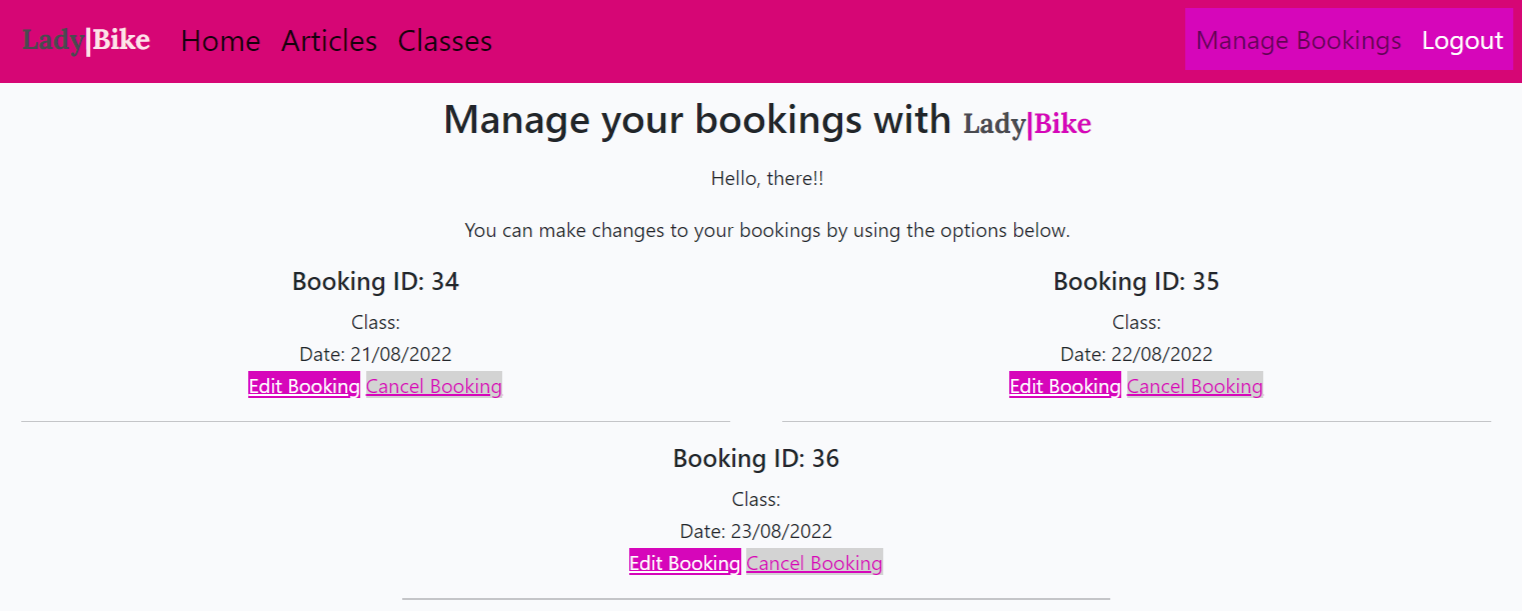
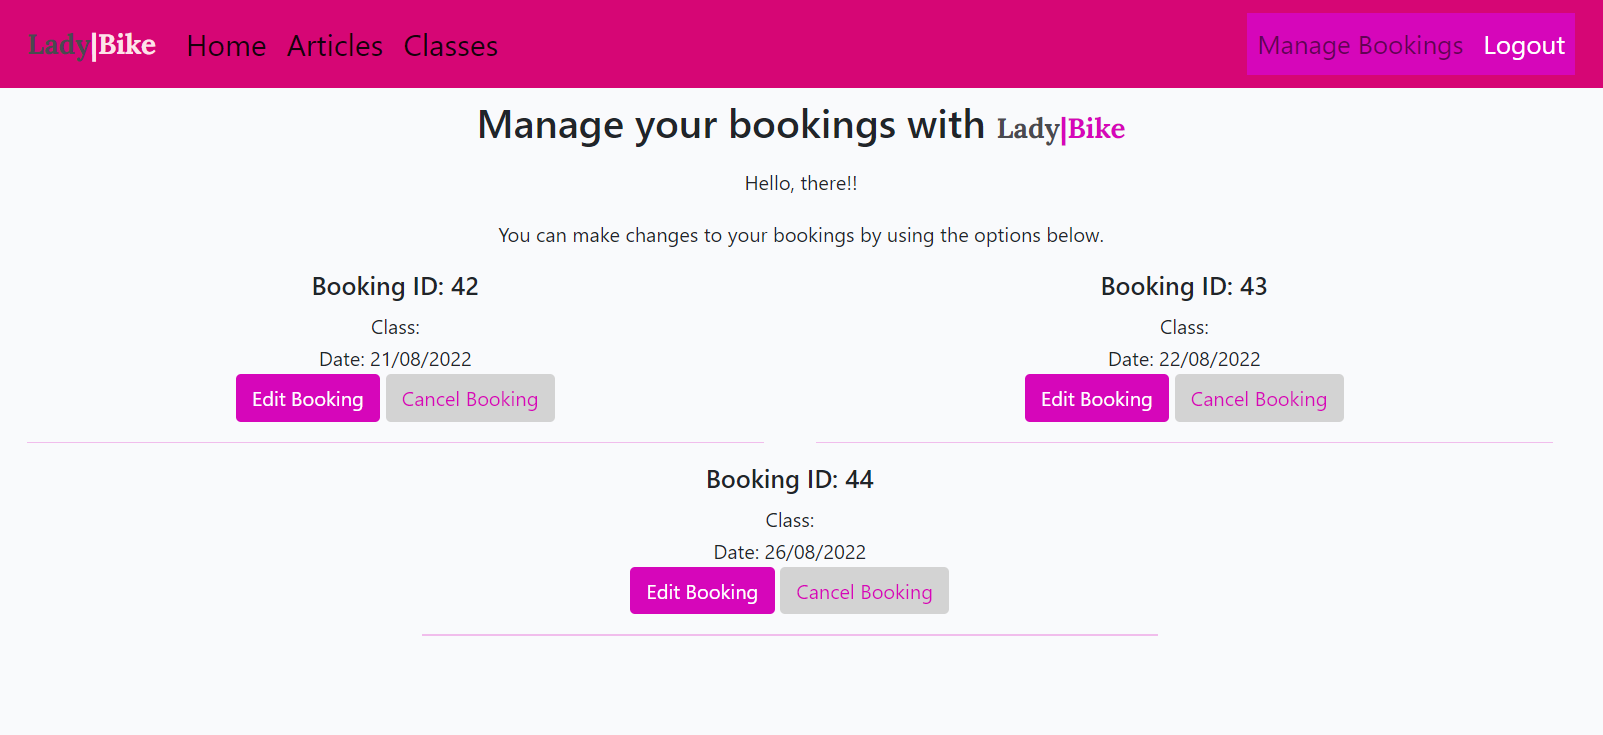
Added more style on the manage booking page and replaced the imaged shown on the readme file

diff --git a/templates/manage_booking.html b/templates/manage_booking.html
@@ -37,13 +37,13 @@
                         </li>
                             <div class="text-center">
                                 <a href="{% url 'edit_booking' booking.booking_id %}"
-                                    class="button submit-button inline-btn" style="background-color: #d606ba;
+                                    class="button btn submit-button inline-btn" style="background-color: #d606ba;
                                     color: white;">Edit Booking</a>
                                 <a href="{% url 'delete_booking' booking.booking_id %}"
-                                    class="button cancel-button inline-btn" style="background-color: lightgray;
+                                    class="button btn cancel-button inline-btn" style="background-color: lightgray;
                                     color: #d606ba;">Cancel Booking</a>
                             </div>
-                            <hr>
+                            <hr style="color: #d606ba;">
                             </li>
                     </ul>
                 </div>
